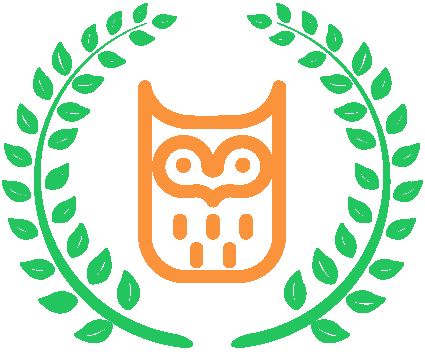
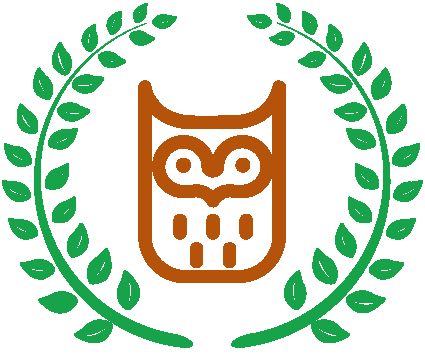
Change color scheme of header and add book button

Changed region(s): [[0.52, 0.0, 1.0, 0.9915], [0.0, 0.0, 0.4588, 0.9915], [0.3059, 0.2169, 0.6729, 0.8056]]

diff --git a/css/output.css b/css/output.css
@@ -637,6 +637,16 @@ video {
   border-color: rgb(251 146 60 / var(--tw-border-opacity));
 }
 
+.border-amber-700 {
+  --tw-border-opacity: 1;
+  border-color: rgb(180 83 9 / var(--tw-border-opacity));
+}
+
+.border-green-600 {
+  --tw-border-opacity: 1;
+  border-color: rgb(22 163 74 / var(--tw-border-opacity));
+}
+
 .bg-\[\#eff0f3\] {
   --tw-bg-opacity: 1;
   background-color: rgb(239 240 243 / var(--tw-bg-opacity));
@@ -660,6 +670,11 @@ video {
 .bg-orange-500 {
   --tw-bg-opacity: 1;
   background-color: rgb(249 115 22 / var(--tw-bg-opacity));
+}
+
+.bg-\[\#f8f5f2\] {
+  --tw-bg-opacity: 1;
+  background-color: rgb(248 245 242 / var(--tw-bg-opacity));
 }
 
 .p-16 {
@@ -746,6 +761,31 @@ video {
   color: rgb(161 98 7 / var(--tw-text-opacity));
 }
 
+.text-green-600 {
+  --tw-text-opacity: 1;
+  color: rgb(22 163 74 / var(--tw-text-opacity));
+}
+
+.text-green-700 {
+  --tw-text-opacity: 1;
+  color: rgb(21 128 61 / var(--tw-text-opacity));
+}
+
+.text-orange-600 {
+  --tw-text-opacity: 1;
+  color: rgb(234 88 12 / var(--tw-text-opacity));
+}
+
+.text-orange-700 {
+  --tw-text-opacity: 1;
+  color: rgb(194 65 12 / var(--tw-text-opacity));
+}
+
+.text-amber-700 {
+  --tw-text-opacity: 1;
+  color: rgb(180 83 9 / var(--tw-text-opacity));
+}
+
 .transition-colors {
   transition-property: color, background-color, border-color, text-decoration-color, fill, stroke;
   transition-timing-function: cubic-bezier(0.4, 0, 0.2, 1);
@@ -772,6 +812,16 @@ td{
 .hover\:bg-orange-400:hover {
   --tw-bg-opacity: 1;
   background-color: rgb(251 146 60 / var(--tw-bg-opacity));
+}
+
+.hover\:bg-amber-700:hover {
+  --tw-bg-opacity: 1;
+  background-color: rgb(180 83 9 / var(--tw-bg-opacity));
+}
+
+.hover\:bg-green-600:hover {
+  --tw-bg-opacity: 1;
+  background-color: rgb(22 163 74 / var(--tw-bg-opacity));
 }
 
 .hover\:text-white:hover {

diff --git a/index.html b/index.html
@@ -22,12 +22,12 @@
         alt="athena-owl-logo"
         class="w-[calc(2.5vw+4.5rem)] h-auto"
       />
-      <div class="text-3xl text-green-500">Library of Athena</div>
+      <div class="text-3xl text-amber-700">Library of Athena</div>
     </div>
     <div class="flex items-center justify-around flex-wrap">
       <div class="flex justify-center">
         <button
-          class="add-btn border-2 border-dashed border-orange-400 text-orange-400 p-3 rounded-md w-[calc(3vw+8rem)] hover:bg-orange-400 hover:text-white transition-colors duration-200"
+          class="add-btn border-2 border-dashed border-amber-700 text-amber-700 p-3 rounded-md w-[calc(3vw+8rem)] hover:bg-amber-700 hover:text-white transition-colors duration-200"
         >
           + Add Book
         </button>
